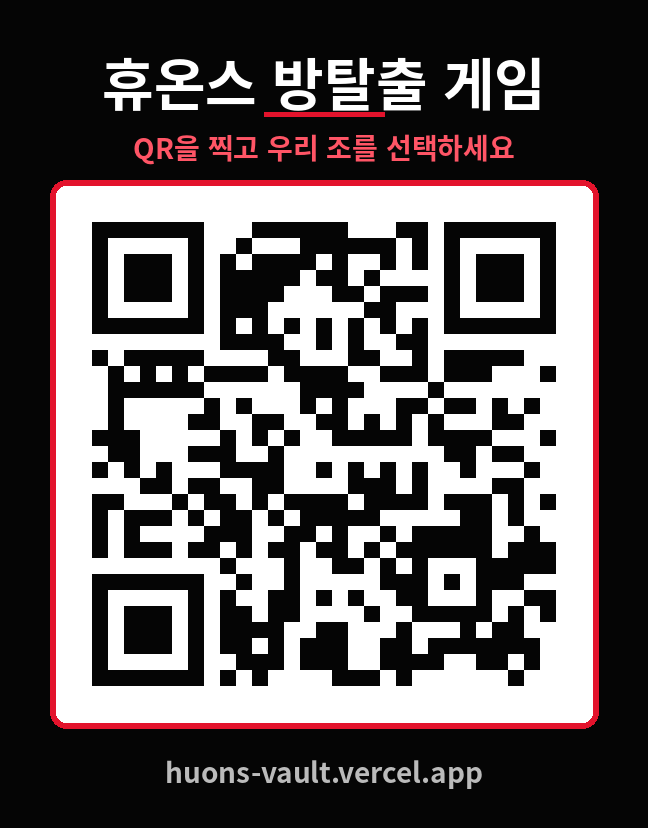
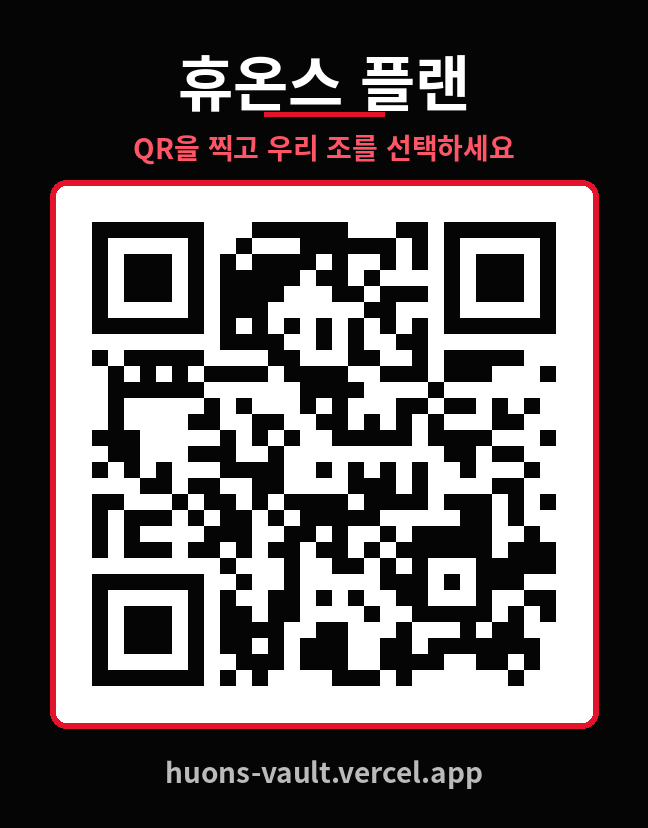
Rename game title to 휴온스 플랜
Claude-Session: https://claude.ai/code/session_01No9ZrNBryh1dwiVR72j9rS

Changed region(s): [[0.1543, 0.0604, 0.8333, 0.151]]

diff --git a/huons-vault/index.html b/huons-vault/index.html
@@ -4,7 +4,7 @@
 <meta charset="UTF-8">
 <meta name="viewport" content="width=device-width, initial-scale=1.0, viewport-fit=cover, user-scalable=no">
 <meta name="theme-color" content="#050505">
-<title>휴온스 방탈출 게임</title>
+<title>휴온스 플랜</title>
 <link rel="stylesheet" href="https://fonts.googleapis.com/css2?family=Black+Han+Sans&family=Noto+Sans+KR:wght@400;700;900&display=swap">
 <link rel="stylesheet" href="style.css">
 </head>
@@ -15,7 +15,7 @@
     <div class="brand-icon"><span>H</span></div>
     <div style="flex:1">
       <div class="brand-sub">HUONS GROUP 입문교육</div>
-      <h1>휴온스 방탈출 게임</h1>
+      <h1>휴온스 플랜</h1>
     </div>
     <button id="btnMute" class="mute" aria-label="소리 켜기/끄기">🔊</button>
   </header>

diff --git a/huons-vault/admin.html b/huons-vault/admin.html
@@ -80,7 +80,7 @@
         <div class="brand-icon"><span>H</span></div>
         <div>
           <div class="brand-sub">HUONS GROUP 입문교육 · 탈옥 관제실 <span id="statusPill" class="status-pill st-waiting">대기 중</span></div>
-          <h1>휴온스 방탈출 게임</h1>
+          <h1>휴온스 플랜</h1>
         </div>
       </header>
       <div class="big-timer" id="bigTimer">30:00</div>
